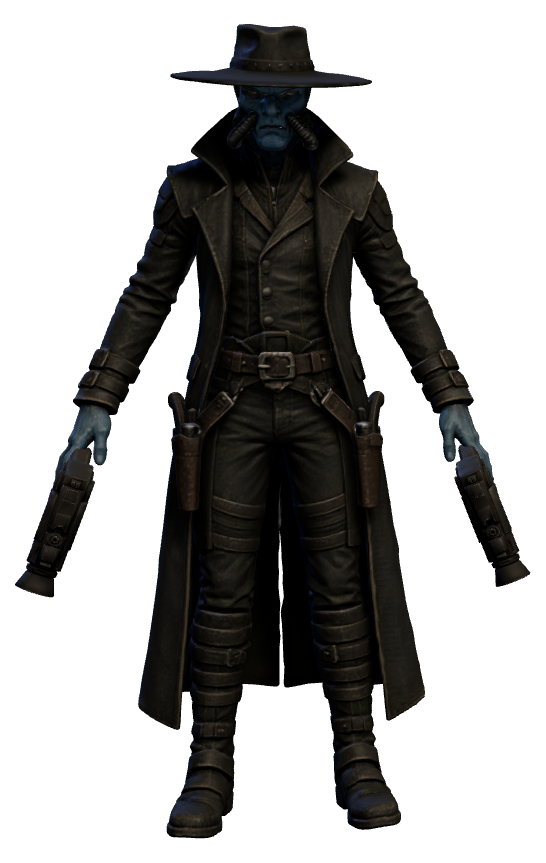
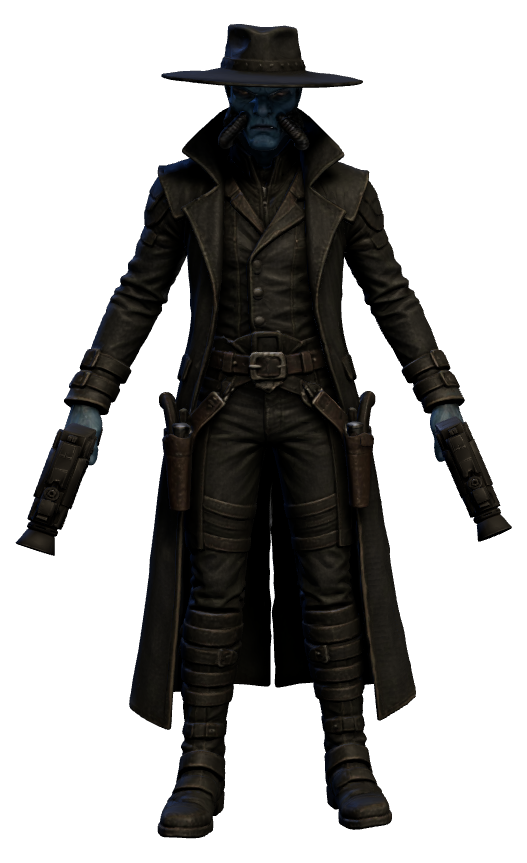
Aim Cad Bane's twin pistols together across poses

diff --git a/src/player/player.ts b/src/player/player.ts
@@ -2241,6 +2241,10 @@ export class Player {
     this.facingYaw = dampAngle(this.facingYaw, targetYaw, turn, dt);
   }
 
+  private get gunAimClip(): string {
+    return this.characterId === 'duelist' ? 'dualPistolAimUpper' : 'aimUpper';
+  }
+
   /** which clips the body plays for what it is doing */
   private updateLocomotionAnim(dt: number, input: FrameInput, game: Game, anim: Animator, speed2: number): void {
     const gunUp = input.aimHeld || input.shootHeld || this.queuedHipShot
@@ -2265,7 +2269,7 @@ export class Player {
     if (this.autoCrouching) {
       anim.play('lower', speed2 > 0.35 ? 'crouchWalkLower' : 'coverLower', 0.12);
       if (this.blocking) anim.play('upper', 'blockUpper', 0.12);
-      else if (this.meleeTimer <= 0) anim.play('upper', gunUp ? 'aimUpper' : 'idleUpper');
+      else if (this.meleeTimer <= 0) anim.play('upper', gunUp ? this.gunAimClip : 'idleUpper');
     } else if (this.blocking) {
       // the brace owns both channels: no running, no firing from behind it
       anim.play('lower', speed2 > 0.6 ? 'runLower' : 'blockLower', 0.14, 0.6);
@@ -2287,11 +2291,11 @@ export class Player {
       const fly = flightClips(this.flyPose);
       anim.play('lower', fly.lower, FLY_FADE);
       if (this.meleeTimer <= 0) {
-        anim.play('upper', gunUp ? 'aimUpper' : fly.upper, FLY_FADE);
+        anim.play('upper', gunUp ? this.gunAimClip : fly.upper, FLY_FADE);
       }
     } else if (!this.grounded) {
       anim.play('lower', 'airLower');
-      if (this.meleeTimer <= 0) anim.play('upper', gunUp ? 'aimUpper' : 'airUpper');
+      if (this.meleeTimer <= 0) anim.play('upper', gunUp ? this.gunAimClip : 'airUpper');
     } else if (speed2 > 0.6) {
       // Which way is travel, relative to the body? Combat facing points the
       // chest at the camera while the feet go where the stick says, and the
@@ -2309,7 +2313,7 @@ export class Player {
       const rate = travel.dir * anim.gaitRate(lowerClip, speed2, this.char.baseScale) * (travel.dir < 0 ? 0.9 : 1);
       anim.play('lower', lowerClip, 0.15, rate);
       const runUpper = this.sabersDrawn ? (this.characterId === 'maris' ? 'tonfaRunUpper' : this.characterId === 'maul' ? 'staffRunUpper' : 'saberRunUpper') : 'runUpper';
-      if (this.meleeTimer <= 0) anim.play('upper', gunUp ? 'aimUpper' : runUpper, 0.15, Math.abs(rate));
+      if (this.meleeTimer <= 0) anim.play('upper', gunUp ? this.gunAimClip : runUpper, 0.15, Math.abs(rate));
       if (this.wading) {
         if (Math.random() < speed2 * dt * 0.9) game.particles.splash(this.position.clone().setY(game.board.waterY ?? this.position.y), 3);
       } else if (Math.random() < speed2 * dt * 0.7) game.particles.runDust(this.position);
@@ -2323,7 +2327,7 @@ export class Player {
     } else {
       anim.play('lower', 'idleLower');
       const idleUpper = this.sabersDrawn ? (this.characterId === 'maris' ? 'tonfaIdleUpper' : this.characterId === 'maul' ? 'staffIdleUpper' : 'saberIdleUpper') : 'idleUpper';
-      if (this.meleeTimer <= 0) anim.play('upper', gunUp ? 'aimUpper' : idleUpper);
+      if (this.meleeTimer <= 0) anim.play('upper', gunUp ? this.gunAimClip : idleUpper);
     }
   }
 
@@ -2696,7 +2700,7 @@ export class Player {
     // holds while leaning out too: the peek goes round the corner, not over
     // the top, so there is nothing to stand up for.
     anim.play('lower', crouched ? 'coverLower' : 'idleLower');
-    if (this.meleeTimer <= 0) anim.play('upper', this.peeking ? 'aimUpper' : this.sabersDrawn ? (this.characterId === 'maris' ? 'tonfaIdleUpper' : this.characterId === 'maul' ? 'staffIdleUpper' : 'saberIdleUpper') : 'idleUpper');
+    if (this.meleeTimer <= 0) anim.play('upper', this.peeking ? this.gunAimClip : this.sabersDrawn ? (this.characterId === 'maris' ? 'tonfaIdleUpper' : this.characterId === 'maul' ? 'staffIdleUpper' : 'saberIdleUpper') : 'idleUpper');
 
     this.syncVisual(dt, game);
     anim.update(dt);
@@ -2841,7 +2845,7 @@ export class Player {
     const upper = stance === 'stand' ? 'idleUpper' : stance === 'seated' ? 'driveUpper' : 'rideUpper';
     anim.play('lower', lower);
     if (this.meleeTimer <= 0) {
-      anim.play('upper', gunUp ? 'aimUpper' : upper);
+      anim.play('upper', gunUp ? this.gunAimClip : upper);
     }
 
     this.syncVisual(dt, game);
@@ -3622,7 +3626,7 @@ export class Player {
   private syncAimLayer(dt: number): void {
     const anim = this.char.animator;
     if (!anim) return;
-    const aiming = this.alive && anim.playing('upper') === 'aimUpper';
+    const aiming = this.alive && anim.playing('upper') === this.gunAimClip;
     // +pitch looks up; +X on the chest folds it forward and down, so the sign flips
     const want = aiming ? clamp(-this.cam.pitch * AIM_PITCH_SHARE, -AIM_PITCH_MAX, AIM_PITCH_MAX) : 0;
     this.aimPitch = damp(this.aimPitch, want, aiming ? 18 : 10, dt);
@@ -3633,8 +3637,11 @@ export class Player {
       const k = this.armKick / ARM_KICK;
       const shape = k > 0.66 ? (1 - k) / 0.34 : k / 0.66;
       anim.setAdditive('upperArmR', -ARM_KICK_ANGLE * shape, 0, 0);
+      if (this.characterId === 'duelist') anim.setAdditive('upperArmL', -ARM_KICK_ANGLE * shape, 0, 0);
     } else {
-      anim.setAdditive('upperArmR', 0, 0, 0);    }
+      anim.setAdditive('upperArmR', 0, 0, 0);
+      if (this.characterId === 'duelist') anim.setAdditive('upperArmL', 0, 0, 0);
+    }
   }
 
   private syncVisual(dt: number, game: Game): void {

diff --git a/src/anim/clips.ts b/src/anim/clips.ts
@@ -777,6 +777,20 @@ function makeClips(p: Proportions): ClipSet {
     qt('head', [0, 1], [[0, -16, 0], [0, -16, 0]]),
   ]);
 
+  // Cad Bane's pistols are independent hand props. Give each arm the same
+  // forward reach, mirrored across the chest, instead of the carbine's
+  // support-hand pose. The upper clip layers over idle, run and strafe legs.
+  clips.dualPistolAimUpper = new THREE.AnimationClip('dualPistolAimUpper', 1, [
+    qt('chest', [0, 1], [[2, 0, 0], [2, 0, 0]]),
+    qt('shoulderR', [0, 1], [[0, 8, -10], [0, 8, -10]]),
+    qt('shoulderL', [0, 1], [[0, -8, 10], [0, -8, 10]]),
+    qt('upperArmR', [0, 1], [[-82, -8, -12], [-82, -8, -12]]),
+    qt('upperArmL', [0, 1], [[-82, 8, 12], [-82, 8, 12]]),
+    qt('forearmR', [0, 1], [[-12, 0, 0], [-12, 0, 0]]),
+    qt('forearmL', [0, 1], [[-12, 0, 0], [-12, 0, 0]]),
+    qt('head', [0, 1], [[0, 0, 0], [0, 0, 0]]),
+  ]);
+
   // ---------- UPPER: melee combo (gaffi stick in right hand) ----------
   // KEY TIMING: the poses hold their shapes, but the strike key sits close
   // behind a *held* windup — a real hit cocks, hangs a beat, and releases

diff --git a/src/characters/mandalorians.ts b/src/characters/mandalorians.ts
@@ -631,6 +631,15 @@ export function buildMandalorian(id: MandoId, opts: { authored?: boolean } = {})
           if (w.offhand) model.weaponMountL.add(w.offhand);
         }
       }
+      // Cad Bane's workbench grips are local to the authored hands. Keeping
+      // them on the mounts lets the same placement follow every body pose.
+      const pistols = guns.get('pistols');
+      if (id === 'duelist' && pistols?.offhand) {
+        pistols.main.position.set(0.025752, 0.067437, -0.06784);
+        pistols.main.quaternion.set(0.6537136, -0.0671748, 0.0762969, 0.7498832).normalize();
+        pistols.offhand.position.set(-0.01701, 0.072469, -0.096437);
+        pistols.offhand.quaternion.set(0.6447175, 0.0555208, -0.0388719, 0.7614103).normalize();
+      }
       // Measured in the workbench against the authored palms at saberIdle.
       // The prop remains parented to each authored hand, so these grip-local
       // offsets carry through the other saber clips without per-pose copies.

diff --git a/src/workbench/main.ts b/src/workbench/main.ts
@@ -171,6 +171,7 @@ function alternatesFor(p: Pose): Alternate[] {
 function activeClips(): { lower: string | null; upper: string | null } {
   const selected = alternatesFor(pose).find((alt) => alt.id === alternateChoice) ?? pose;
   let upper = selected.upper;
+  if (subject.id === 'duelist' && upper === 'aimUpper') upper = 'dualPistolAimUpper';
   if (alternateChoice === 'none' && (subject.id === 'din' || subject.id === 'maris' || subject.id === 'maul')) {
     const weaponClips: Record<string, string> = subject.id === 'din' ? {
       saber1: 'darksaber1', saber2: 'darksaber2', saber3: 'darksaber3',
